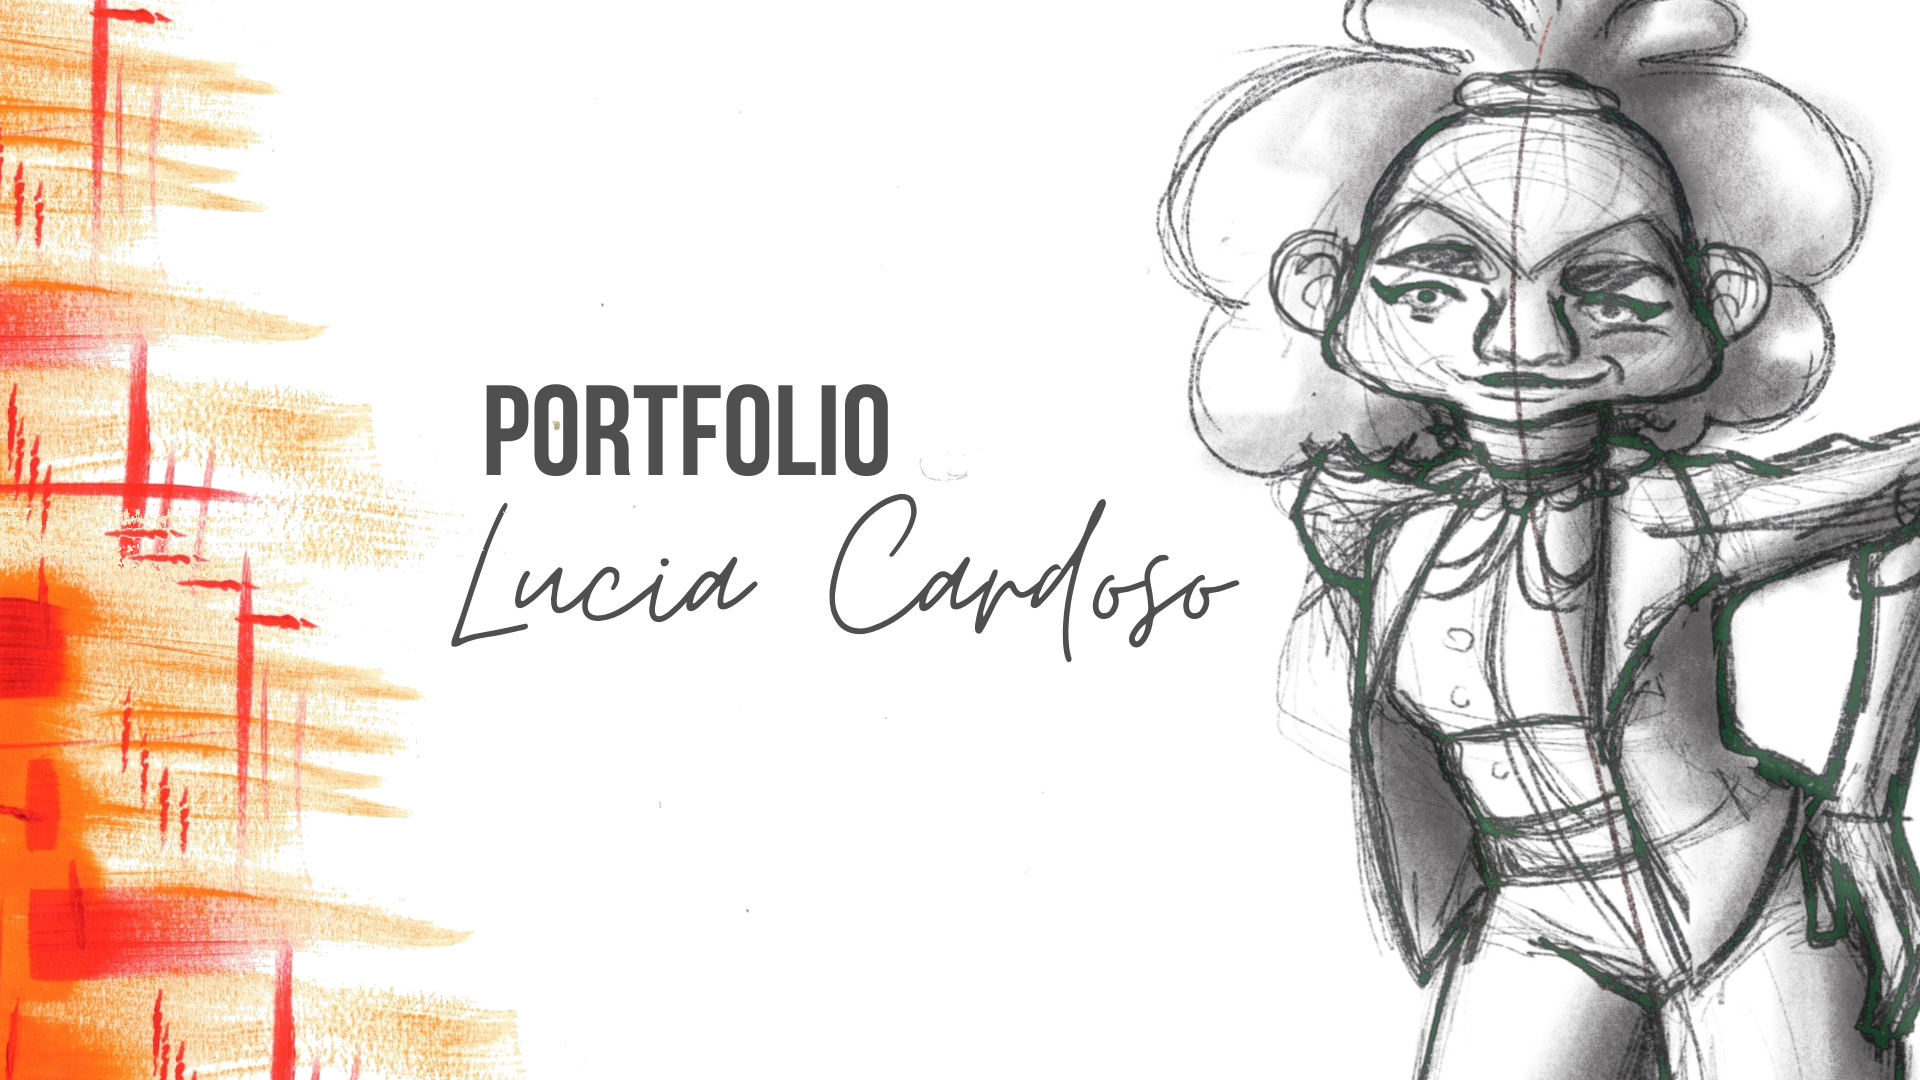
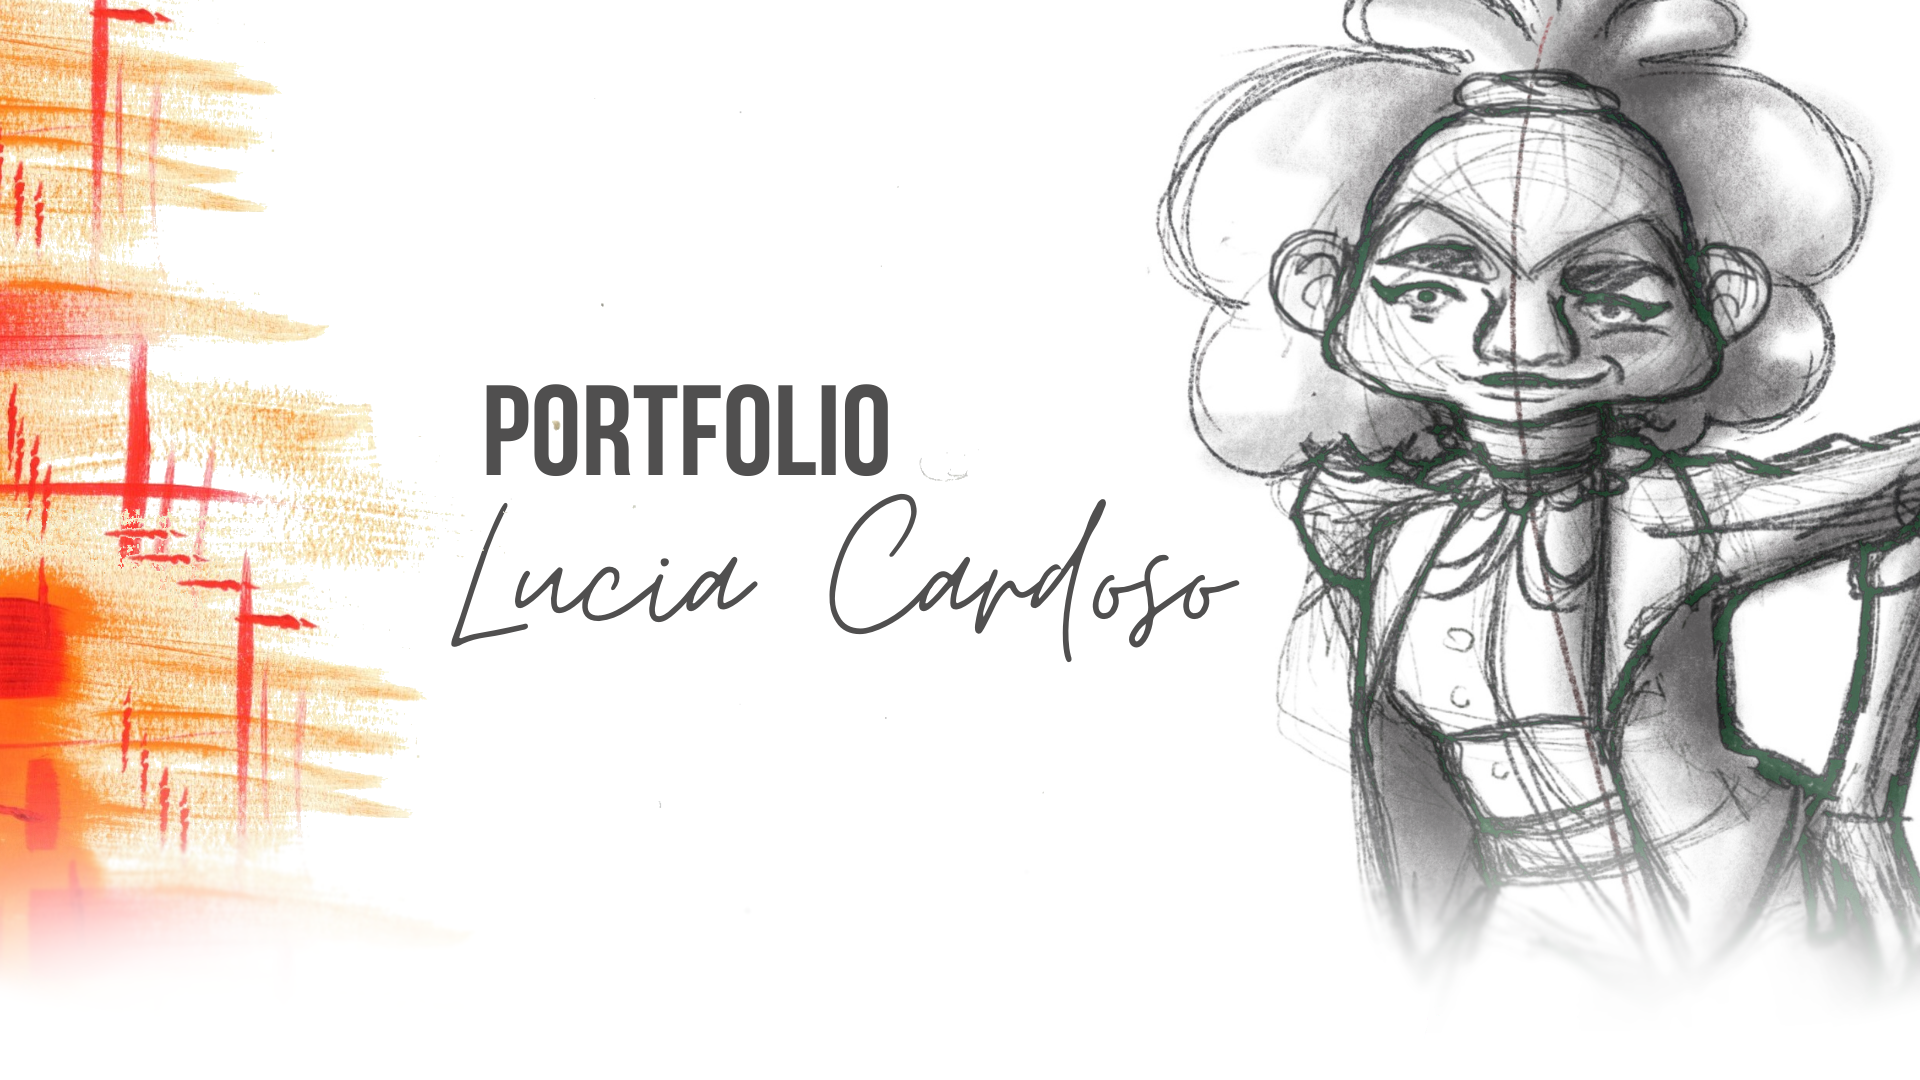
Add files via upload

Changed region(s): [[0.6875, 0.7333, 1.0, 1.0], [0.0, 0.7028, 0.2812, 1.0], [0.1875, 0.7333, 0.2188, 0.7639]]

diff --git a/index.html b/index.html
@@ -15,9 +15,10 @@
     <div class="inicio  uk-height-medium uk-panel uk-flex uk-flex-center uk-flex-middle " >
         
     </div>
-    <ul class="uk-subnav uk-subnav-pill" uk-switcher="animation: uk-animation-slide-left-medium, uk-animation-slide-right-medium">
-        <li><a href="#">Character disgns</a></li>
-        <li><a href="#">Backgrounds</a></li>
+    <ul class="menu uk-subnav uk-flex-center uk-text-large" uk-switcher="animation: uk-animation-slide-left-medium, uk-animation-slide-right-medium">
+        <li><a href="#" class="tx" style="font-size: 2rem;">Character disgns</a></li>
+        <li><a href="#" class="tx"  style="font-size: 2rem;">Backgrounds</a></li>
+        <li><a href="#" class="tx"  style="font-size: 2rem;">Info</a></li>
     </ul>
 
     <ul class="uk-switcher uk-margin">
@@ -136,6 +137,33 @@
                     <a class="uk-inline" href="img/25.png" >
                         <img src="img/25.png" width="800" height="200" alt="">
                     </a>
+                </div>
+            </div>
+        </li>
+        <li>
+            <div class="uk-card uk-card-default uk-grid-collapse uk-child-width-1-2@s uk-margin" uk-grid>
+                <div class="uk-card-media-left uk-cover-container">
+                    <img src="images/light.jpg" alt="" uk-cover>
+                    <canvas width="600" height="400"></canvas>
+                </div>
+                <div>
+                    <div class="uk-card-body">
+                        <h3 class="uk-card-title tx">Lucia Cardoso</h3>
+                        <p>Lorem ipsum dolor sit amet, consectetur adipiscing elit, sed do eiusmod tempor incididunt.</p>
+                    </div>
+                </div>
+            </div>
+            
+            <div class="uk-card uk-card-default uk-grid-collapse uk-child-width-1-2@s uk-margin" uk-grid>
+                <div class="uk-flex-last@s uk-card-media-right uk-cover-container">
+                    <img src="images/light.jpg" alt="" uk-cover>
+                    <canvas width="600" height="400"></canvas>
+                </div>
+                <div>
+                    <div class="uk-card-body">
+                        <h3 class="uk-card-title">Datos De Contacto</h3>
+                        <p>Lorem ipsum dolor sit amet, consectetur adipiscing elit, sed do eiusmod tempor incididunt.</p>
+                    </div>
                 </div>
             </div>
         </li>

diff --git a/css/stile.css b/css/stile.css
@@ -17,11 +17,11 @@ body{
 .inicio{
     width: 100%;
     height: 100vh;
-    margin-bottom: 100px;
-    background-image: url("../img/1.png");
-    background-size:cover ;
+    margin-bottom: 60px;
+    background-image: url("../img/fon.png");
+    background-size:100% auto;
+
     background-repeat: no-repeat;
-    background-position: right;
 }
 
 .titulo{
@@ -40,3 +40,28 @@ body{
 .tx{
     font-family: 'Gloria Hallelujah', cursive;
 }
+
+.menu{
+    margin: 60px;
+    align-items: center;
+    text-align: center;
+}
+
+.menu li{
+    padding: 30px;
+}
+/* @media(max-width: 978px) {
+
+    .inicio{
+        height: 64vh;
+    }
+    
+        } */
+
+@media(max-width: 798px) {
+
+    .inicio{
+        height: 42vh;
+    }
+    
+        }
